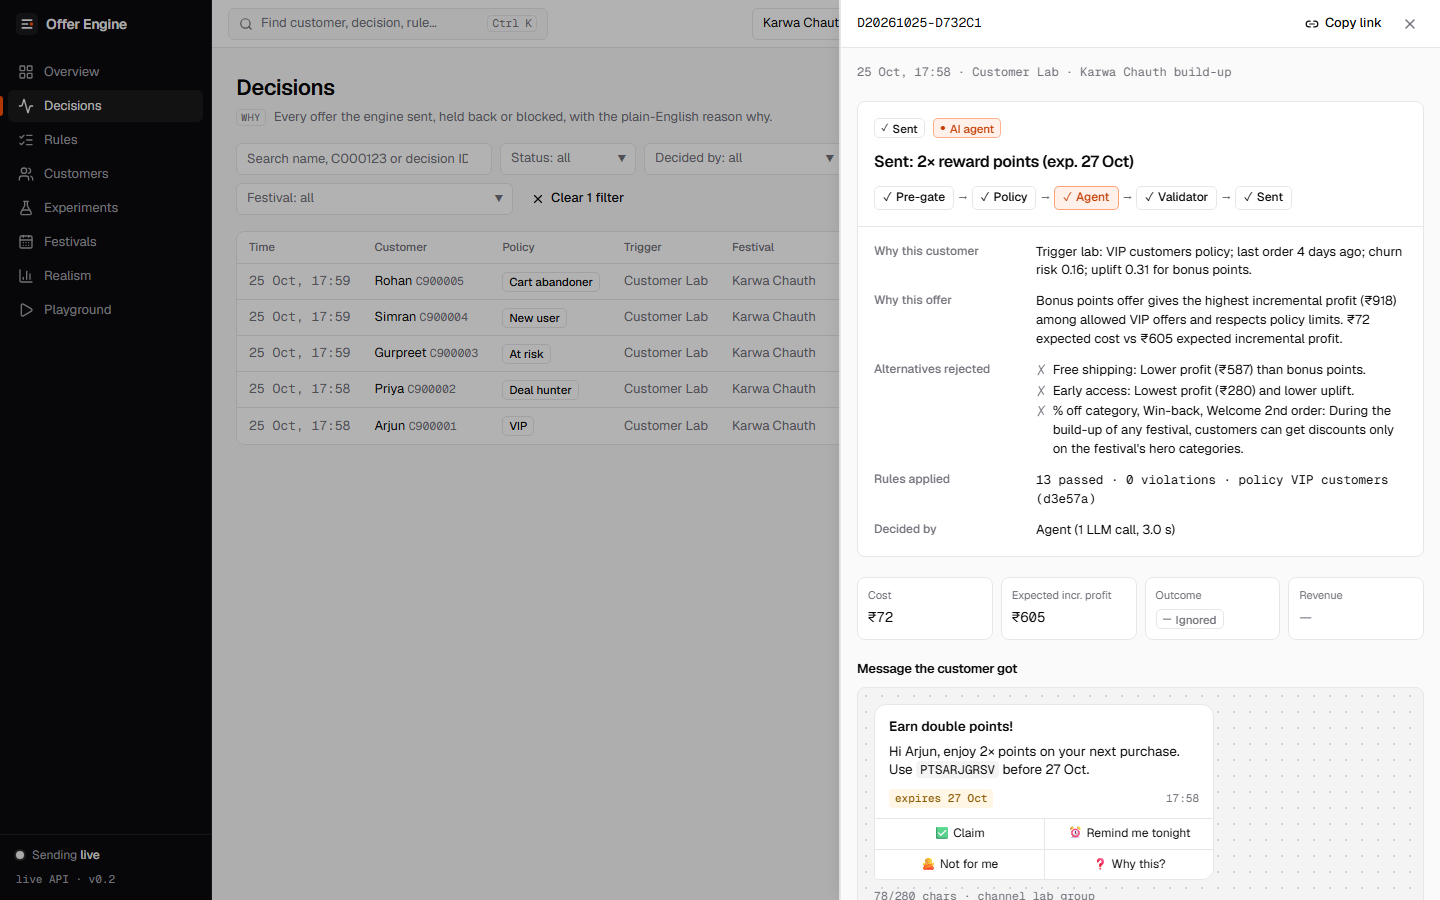
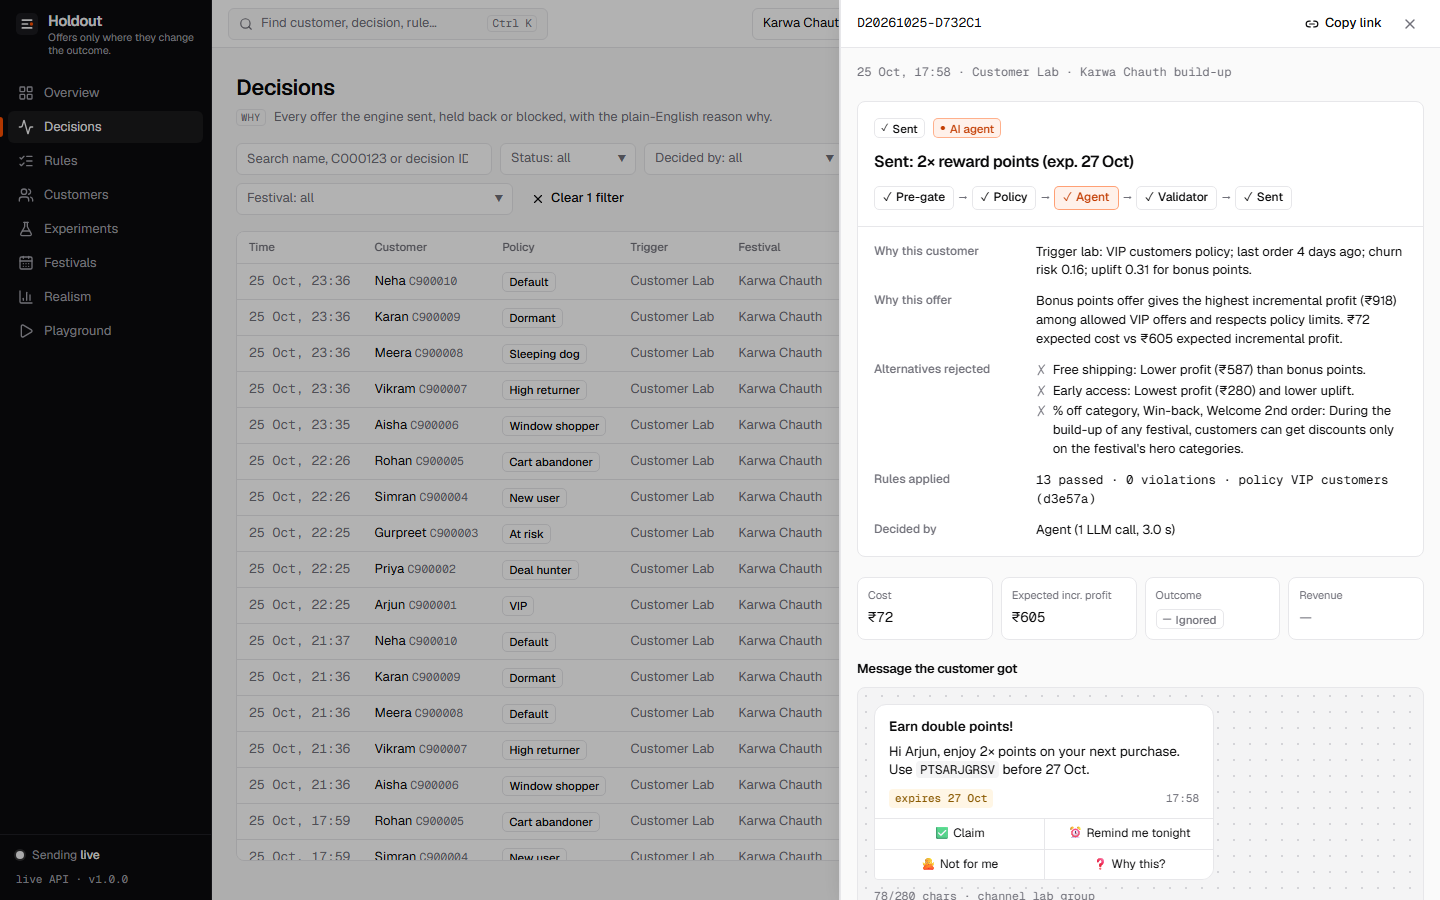
feat(dashboard): rename product to Holdout, show API version from /health, retake screenshots

diff --git a/frontend/src/app/Sidebar.tsx b/frontend/src/app/Sidebar.tsx
@@ -1,29 +1,33 @@
 import { NavLink } from 'react-router-dom'
 import { USE_MOCKS } from '@/lib/api'
-import { useKillswitch } from '@/lib/queries'
+import { useHealth, useKillswitch } from '@/lib/queries'
 import { cn } from '@/lib/utils'
 import { NAV } from './nav'
 
 export function Wordmark() {
   return (
-    <div className="flex items-center gap-2">
-      <svg width="22" height="22" viewBox="0 0 32 32" aria-hidden>
+    <div className="flex items-start gap-2.5">
+      <svg width="22" height="22" viewBox="0 0 32 32" aria-hidden className="mt-px shrink-0">
         <rect width="32" height="32" rx="7" fill="#1a1a1f" />
         <rect x="8" y="9" width="16" height="2.5" rx="1.25" fill="#F4F4F5" />
         <rect x="8" y="14.75" width="10" height="2.5" rx="1.25" fill="#F4F4F5" />
         <circle cx="22.5" cy="16" r="2.5" fill="#FF4F00" />
         <rect x="8" y="20.5" width="16" height="2.5" rx="1.25" fill="#F4F4F5" />
       </svg>
-      <span className="title text-[14px] text-rail-ink">Offer Engine</span>
+      <span className="flex flex-col leading-tight">
+        <span className="title text-[15px] tracking-[-0.03em] text-rail-ink">Holdout</span>
+        <span className="text-[10.5px] text-rail-muted">Offers only where they change the outcome.</span>
+      </span>
     </div>
   )
 }
 
 export function Sidebar({ onNavigate }: { onNavigate?: () => void }) {
   const { data: ks } = useKillswitch()
+  const { data: health } = useHealth()
   return (
     <aside className="flex h-full w-[212px] shrink-0 flex-col border-r border-rail-line bg-rail text-rail-ink">
-      <div className="flex h-12 items-center px-4">
+      <div className="flex min-h-12 items-center px-4 py-3">
         <Wordmark />
       </div>
       <nav aria-label="Main" className="flex-1 px-2 py-2">
@@ -63,7 +67,9 @@ export function Sidebar({ onNavigate }: { onNavigate?: () => void }) {
             Sending <b className="font-medium text-rail-ink">{ks ? (ks.on ? 'paused (kill switch on)' : 'live') : '…'}</b>
           </span>
         </div>
-        <div className="num text-[11px] text-rail-muted">{USE_MOCKS ? 'mock data' : 'live API'} · v0.2</div>
+        <div className="num text-[11px] text-rail-muted">
+          {USE_MOCKS ? 'mock data' : 'live API'}{health?.version ? ` · v${health.version}` : ''}
+        </div>
       </div>
     </aside>
   )

diff --git a/frontend/index.html b/frontend/index.html
@@ -4,8 +4,8 @@
     <meta charset="UTF-8" />
     <link rel="icon" type="image/svg+xml" href="/favicon.svg" />
     <meta name="viewport" content="width=device-width, initial-scale=1.0" />
-    <meta name="description" content="Offer Engine: decides which offer each customer gets, and proves it was worth it." />
-    <title>Offer Engine</title>
+    <meta name="description" content="Holdout: offers only where they change the outcome. Decides which offer each customer gets, and proves it was worth it." />
+    <title>Holdout</title>
     <script>
       try {
         var t = localStorage.getItem('oe-theme')

diff --git a/frontend/src/mocks/handlers.ts b/frontend/src/mocks/handlers.ts
@@ -25,7 +25,7 @@ const on = (method: string, pattern: string, h: Handler) =>
 const byTsDesc = (a: DecisionLight, b: DecisionLight) => b.ts.localeCompare(a.ts)
 
 on('GET', '/health', (): Health => ({
-  ok: true, version: '0.4-mock',
+  ok: true, version: '1.0-mock',
   llm_budget: {
     agent: { used: 13100, limit: 80000, model: 'openai/gpt-oss-120b' },
     fast: { used: 0, limit: 400000, model: 'openai/gpt-oss-20b' },
